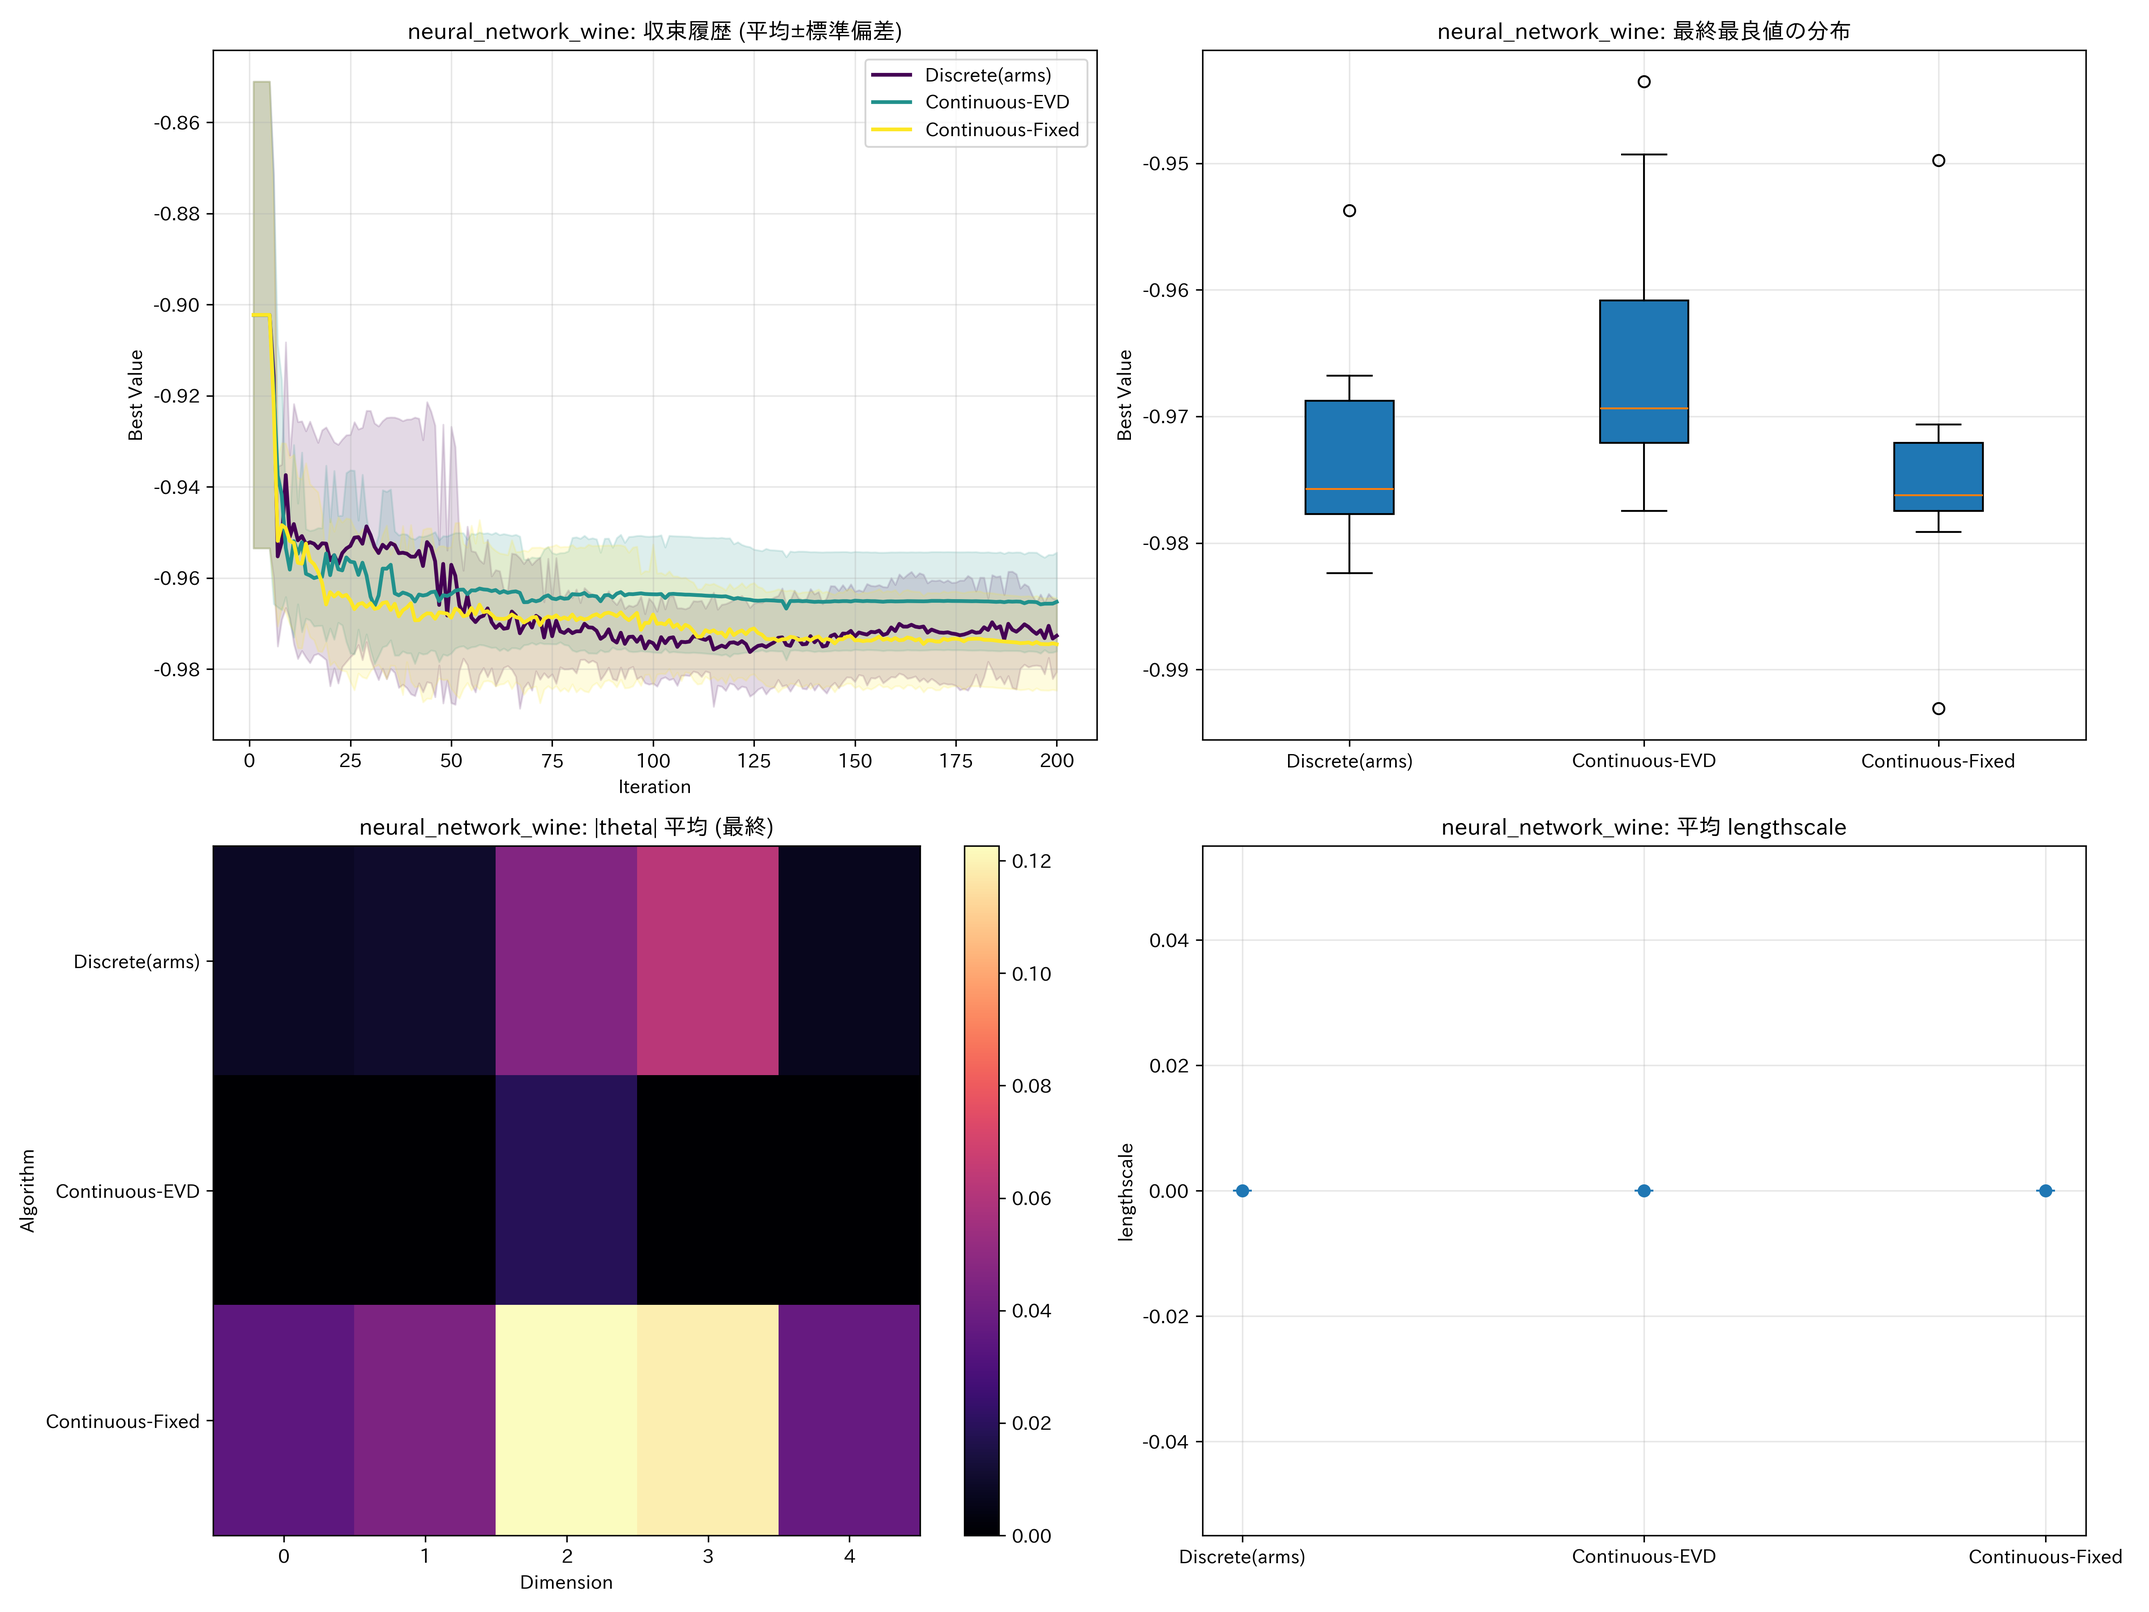
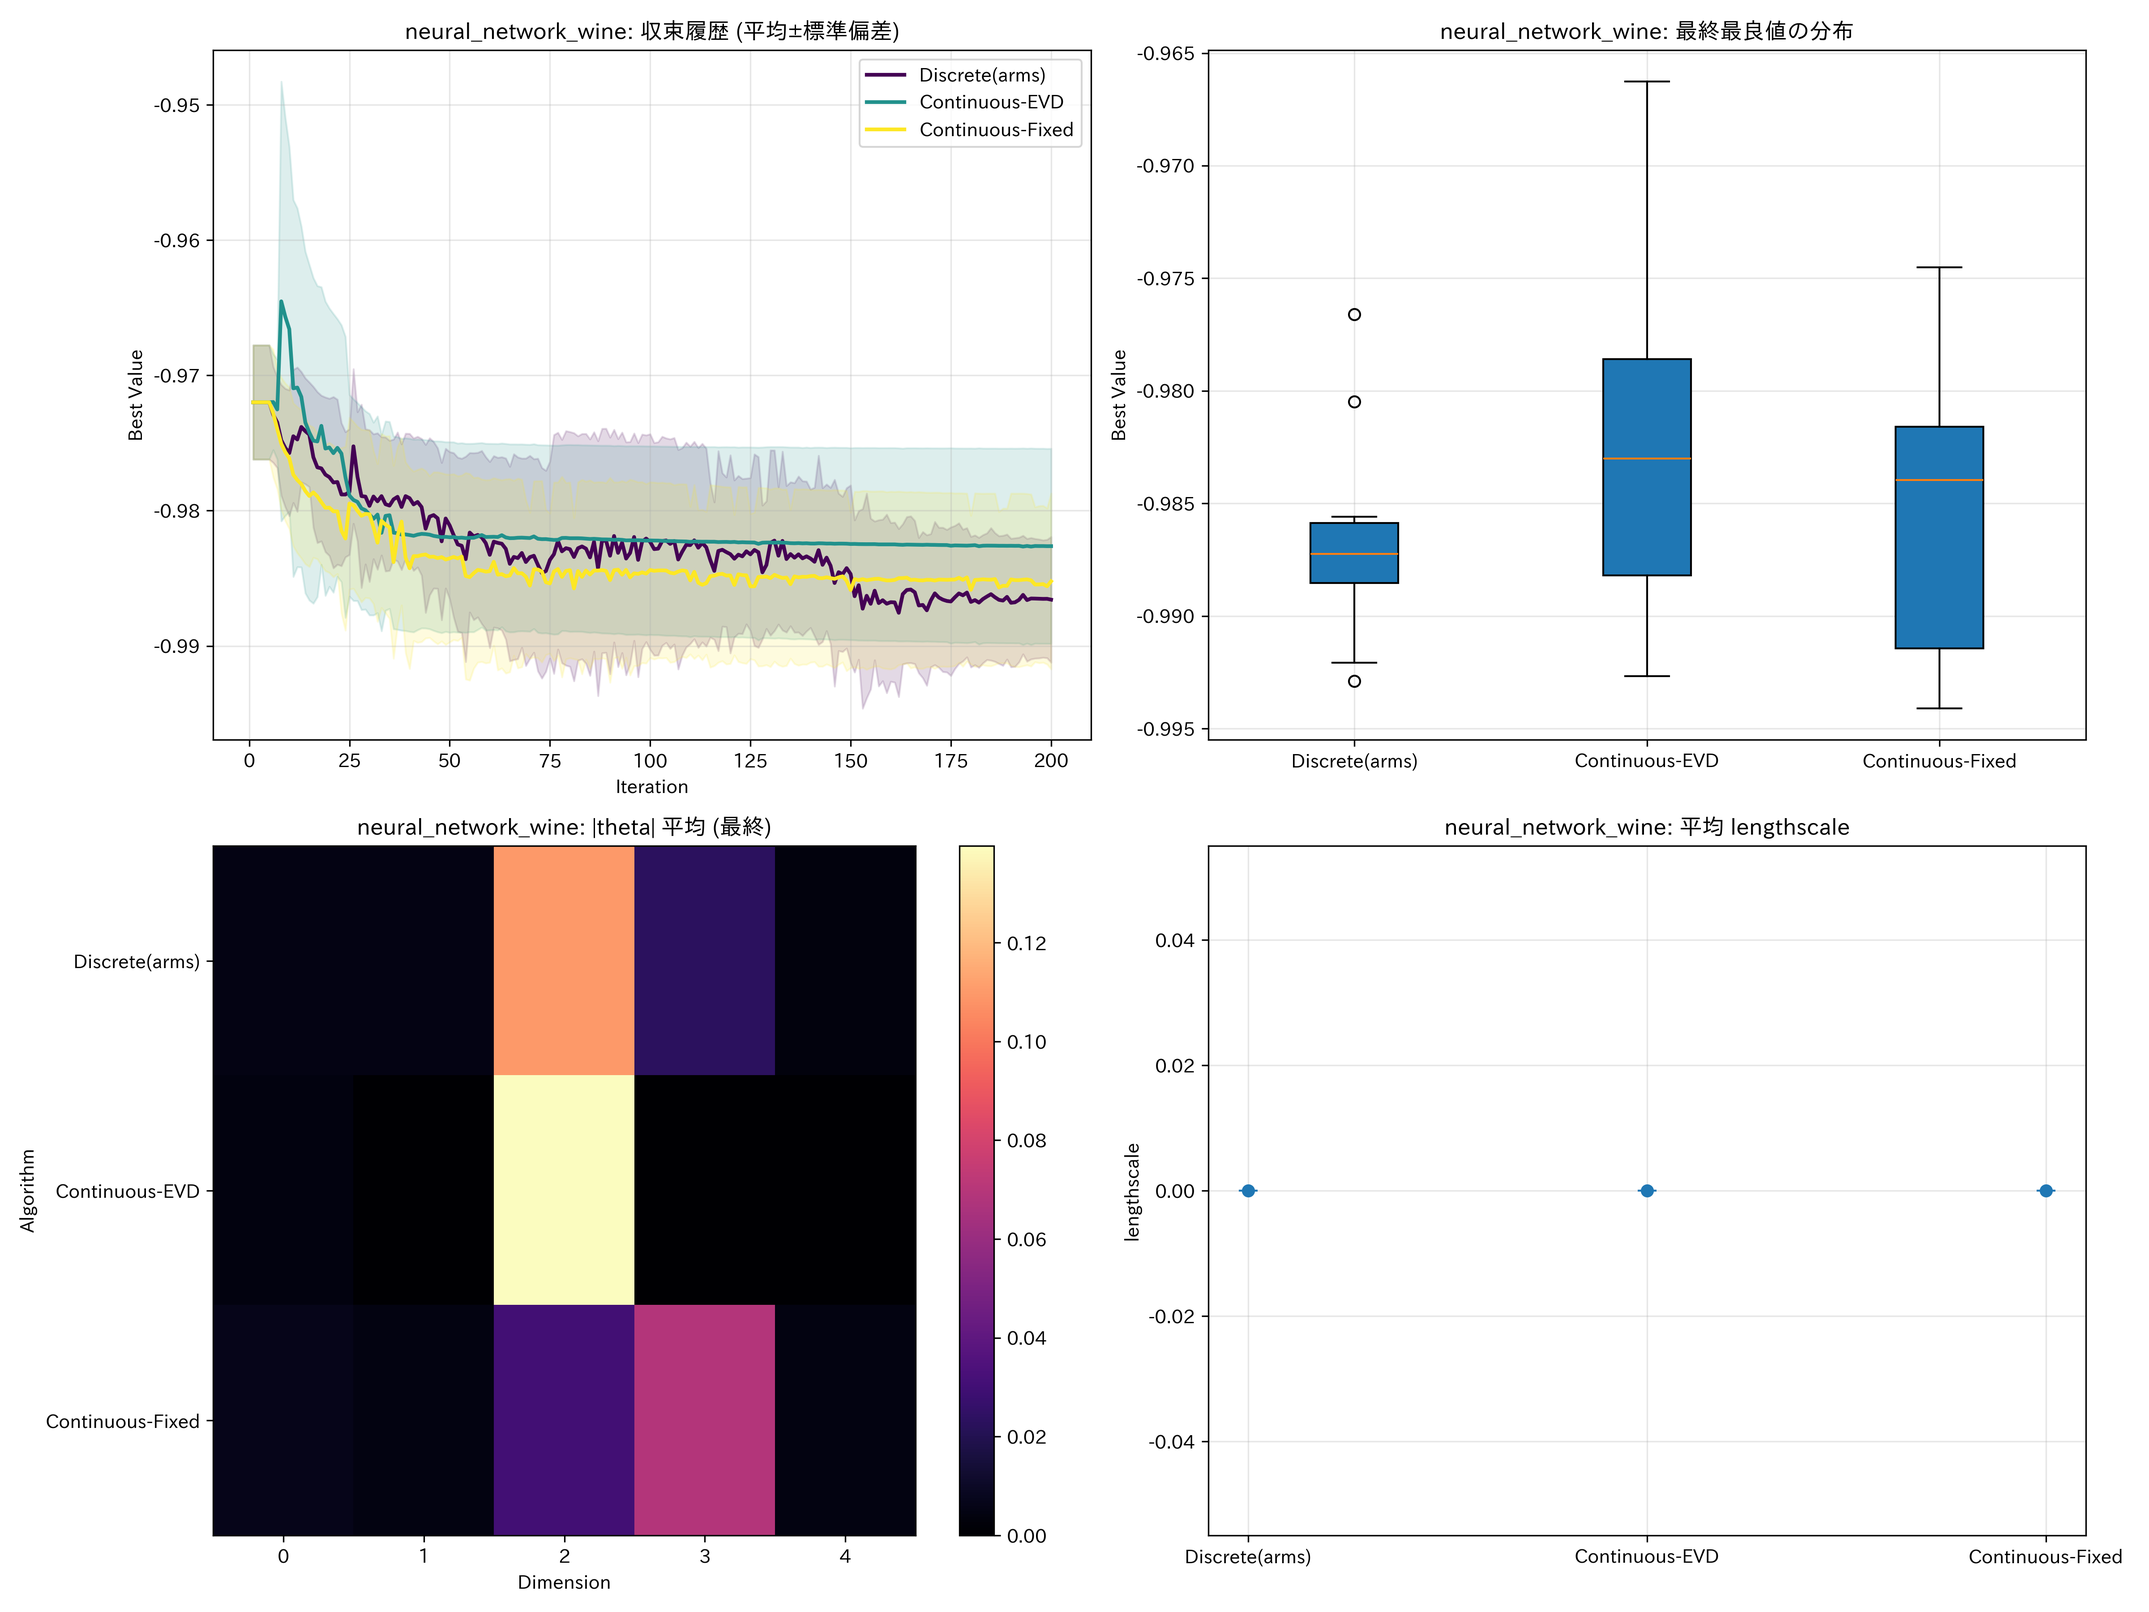
LInBandit更新

diff --git a/LinBandit-BO.py b/LinBandit-BO.py
@@ -1,16 +1,17 @@
 #!/usr/bin/env python3
 # -*- coding: utf-8 -*-
 """
-LinBandit-BO: Linear Bandit-based Bayesian Optimization
+LinBandit-BO: Linear Bandit-based Bayesian Optimization (NLPD*dir 版)
 
-高次元最適化問題に対して、Linear Bandit (LinUCB) とBayesian Optimization (BO)を
-組み合わせたアルゴリズムです。
+高次元最適化問題に対して、Linear Bandit (LinUCB) と Bayesian Optimization (BO) を
+組み合わせたアルゴリズムです。本実装は hpo_benchmark_reward_function_comparison で
+比較している「NLPD*dir」を基本アルゴリズムとして採用しています。
 
-主な特徴:
-- Linear UCBで探索方向を適応的に選択
-- ベイズ最適化で選択された方向に沿って最適点を探索
-- 高次元でも効率的に動作（100次元以上でも実用的）
-- 最適化された設定：0.5x arms + 勾配ベース報酬
+要点:
+- 方向選択: Continuous-Fixed（固定点反復）で信頼楕円体に基づく方向を選択
+- 取得関数: Expected Improvement (EI)
+- ラインサーチ: 方向に沿った1次元の粗グリッド + 局所33点で安定最適化
+- 報酬: NLPD（負の対数予測密度）を平滑化正規化したスカラー r を用い、b ← b + r·direction
 """
 
 import math
@@ -38,6 +39,25 @@ import warnings
 warnings.filterwarnings("ignore")
 
 
+class EMA:
+    """指数移動平均（NLPD 正規化用途）。"""
+    def __init__(self, alpha: float = 0.1, eps: float = 1e-8) -> None:
+        self.alpha = float(alpha)
+        self.eps = float(eps)
+        self._m = None
+
+    def update(self, x: float) -> float:
+        if self._m is None:
+            self._m = float(x)
+        else:
+            self._m = self.alpha * float(x) + (1.0 - self.alpha) * self._m
+        return float(self._m)
+
+    @property
+    def value(self) -> float:
+        return float(self._m if self._m is not None else self.eps)
+
+
 class LinBanditBO:
     """
     LinBandit-BO: Linear Bandit-based Bayesian Optimization
@@ -52,7 +72,7 @@ class LinBanditBO:
                  l_min: float = 0.05,
                  normalize_inputs_for_gp: bool = False,
                  track_history: bool = False,
-                 direction_selection: str = "discrete"):
+                 direction_selection: str = "continuous_fixed"):
         """
         Parameters
         ----------
@@ -129,6 +149,9 @@ class LinBanditBO:
         
         # 方向選択方式
         self.direction_selection = str(direction_selection)
+
+        # NLPD の指数移動平均（スケール正規化用）
+        self._ema_nlpd = EMA(alpha=0.1)
 
     def _compute_beta_t(self):
         """LinUCBのβ_t（現行式）を計算。"""
@@ -320,64 +343,79 @@ class LinBanditBO:
         return x
     
     def propose_new_x(self, direction):
-        """選択された方向に沿った最適化"""
+        """方向に沿った1D EI最大化（粗グリッド + 局所33点）。"""
+        assert self.model is not None and self.best_point is not None
         ei = ExpectedImprovement(self.model, best_f=self.best_value, maximize=False)
-        
-        # 方向に沿った探索範囲の計算
-        active_dims_mask = direction.abs() > 1e-9
-        if not active_dims_mask.any():
+
+        # 可動範囲 [lb, ub] を direction に沿って算出
+        active = direction.abs() > 1e-9
+        if not active.any():
             lb, ub = -1.0, 1.0
         else:
-            ratios_lower = (self.bounds[0] - self.best_point) / (direction + 1e-12 * (~active_dims_mask))
-            ratios_upper = (self.bounds[1] - self.best_point) / (direction + 1e-12 * (~active_dims_mask))
-            
-            t_bounds = torch.zeros(self.dim, 2, device=self.X.device)
-            t_bounds[:, 0] = torch.minimum(ratios_lower, ratios_upper)
-            t_bounds[:, 1] = torch.maximum(ratios_lower, ratios_upper)
-            
-            lb = -float('inf')
-            ub = float('inf')
-            for i in range(self.dim):
-                if active_dims_mask[i]:
-                    lb = max(lb, t_bounds[i, 0].item())
-                    ub = min(ub, t_bounds[i, 1].item())
-                    
-        if lb > ub:
-            domain_width = (self.bounds[1, 0] - self.bounds[0, 0]).item()
-            lb = -0.1 * domain_width
-            ub = 0.1 * domain_width
-            
-        one_d_bounds = torch.tensor([[lb], [ub]], dtype=torch.float32, device=self.X.device)
-        
-        def ei_on_line(t_scalar_tensor):
-            t_values = t_scalar_tensor.squeeze(-1)
-            points_on_line = self.best_point.unsqueeze(0) + t_values.reshape(-1, 1) * direction.unsqueeze(0)
-            points_on_line_clamped = torch.clamp(points_on_line, self.bounds[0].unsqueeze(0), self.bounds[1].unsqueeze(0))
-            if self.normalize_inputs_for_gp:
-                pts = self._to_normalized(points_on_line_clamped)
-            else:
-                pts = points_on_line_clamped
-            return ei(pts.unsqueeze(1))
-        
-        # 獲得関数の最適化
-        cand_t, _ = optimize_acqf(
-            ei_on_line,
-            bounds=one_d_bounds,
-            q=1,
-            num_restarts=10,
-            raw_samples=100
-        )
-        
-        alpha_star = cand_t.item()
-        new_x = self.best_point + alpha_star * direction
-        new_x_clamped = torch.clamp(new_x, self.bounds[0], self.bounds[1])
-        
-        return new_x_clamped
+            ratios_lower = (self.bounds[0] - self.best_point) / (direction + 1e-12 * (~active))
+            ratios_upper = (self.bounds[1] - self.best_point) / (direction + 1e-12 * (~active))
+            t_bounds = torch.stack([
+                torch.minimum(ratios_lower, ratios_upper),
+                torch.maximum(ratios_lower, ratios_upper)
+            ], dim=-1)
+            lb = -float("inf"); ub = float("inf")
+            for idx in range(self.dim):
+                if active[idx]:
+                    lb = max(lb, float(t_bounds[idx, 0]))
+                    ub = min(ub, float(t_bounds[idx, 1]))
+        if not (math.isfinite(lb) and math.isfinite(ub)) or lb >= ub:
+            width = float(self.bounds[1, 0] - self.bounds[0, 0])
+            lb, ub = -0.1 * width, 0.1 * width
+
+        device = self.bounds.device; dtype = self.bounds.dtype
+        n_grid = max(128, min(512, 64 + 4 * self.dim))
+        t_grid = torch.linspace(lb, ub, steps=n_grid, device=device, dtype=dtype)
+        pts = self.best_point.unsqueeze(0) + t_grid.reshape(-1, 1) * direction.unsqueeze(0)
+        pts = torch.clamp(pts, self.bounds[0].unsqueeze(0), self.bounds[1].unsqueeze(0))
+        pts_n = self._to_normalized(pts) if self.normalize_inputs_for_gp else pts
+        with torch.no_grad():
+            vals = ei(pts_n.unsqueeze(1)).view(-1)
+        mask = torch.isfinite(vals)
+        if not mask.any():
+            alpha_star = 0.0
+        else:
+            vals[~mask] = -float("inf")
+            best_idx = int(torch.argmax(vals).item())
+            alpha_star = float(t_grid[best_idx].item())
+            step = float((ub - lb) / (n_grid - 1)) if n_grid > 1 else 0.0
+            if step > 0:
+                local_lb = max(lb, alpha_star - 5 * step)
+                local_ub = min(ub, alpha_star + 5 * step)
+                t_local = torch.linspace(local_lb, local_ub, steps=33, device=device, dtype=dtype)
+                pts_l = self.best_point.unsqueeze(0) + t_local.reshape(-1, 1) * direction.unsqueeze(0)
+                pts_l = torch.clamp(pts_l, self.bounds[0].unsqueeze(0), self.bounds[1].unsqueeze(0))
+                pts_l_n = self._to_normalized(pts_l) if self.normalize_inputs_for_gp else pts_l
+                with torch.no_grad():
+                    vals_l = ei(pts_l_n.unsqueeze(1)).view(-1)
+                mask_l = torch.isfinite(vals_l)
+                if mask_l.any():
+                    vals_l[~mask_l] = -float("inf")
+                    j = int(torch.argmax(vals_l).item())
+                    alpha_star = float(t_local[j].item())
+        x_new = self.best_point + alpha_star * direction
+        return torch.clamp(x_new, self.bounds[0], self.bounds[1])
+
+    def _compute_nlpd_reward(self, y_actual: float, mu_pred: float, var_pred: float, noise_var: float) -> float:
+        """NLPD を EMA でスケール正規化し [0,1] にクリップして返す。"""
+        eps = 1e-9
+        sigma2 = max(float(var_pred + noise_var), eps)
+        resid2 = float((y_actual - mu_pred) ** 2)
+        nlpd = 0.5 * math.log(2.0 * math.pi * sigma2) + 0.5 * (resid2 / sigma2)
+        ema = self._ema_nlpd.value
+        r_scaled = nlpd / max(ema, eps)
+        self._ema_nlpd.update(nlpd)
+        # 数値安定化のためクリップ
+        return max(0.0, min(1.0, float(r_scaled)))
     
     def optimize(self):
         """メインの最適化ループ"""
         print(f"LinBandit-BO開始: {self.dim}次元, アーム数: {self.n_arms}本, 最大{self.n_max}回評価")
-        print(f"最適化設定: 勾配ベース報酬 + 0.5x arms (実験結果に基づく)")
+        print(f"最適化設定: NLPD*dir + 0.5x arms + 1D-EI(粗+局所33)")
         
         # 初期化
         self.initialize()
@@ -401,49 +439,31 @@ class LinBanditBO:
             # 選択された方向に沿った最適化
             new_x = self.propose_new_x(direction)
             
-            # 予測と実際の評価
+            # 予測（平均・分散）と実際の評価
             with torch.no_grad():
                 x_q = self._to_normalized(new_x.unsqueeze(0)) if self.normalize_inputs_for_gp else new_x.unsqueeze(0)
-                predicted_mean = self.model.posterior(x_q).mean.squeeze().item()
-            actual_y = self.objective_function(new_x.unsqueeze(0)).squeeze().item()
-            
-            # 報酬の計算（勾配ベース - 実験結果に基づく最適設計）
-            if self.normalize_inputs_for_gp:
-                new_x_for_grad = self._to_normalized(new_x.clone()).unsqueeze(0)
-                new_x_for_grad.requires_grad_(True)
-                posterior = self.model.posterior(new_x_for_grad)
-                mean_at_new_x = posterior.mean
-                mean_at_new_x.sum().backward()
-                grad_vector_normed = new_x_for_grad.grad.squeeze(0)
-                grad_vector = grad_vector_normed / (self._range + 1e-12)
-            else:
-                new_x_for_grad = new_x.clone().unsqueeze(0)
-                new_x_for_grad.requires_grad_(True)
-                posterior = self.model.posterior(new_x_for_grad)
-                mean_at_new_x = posterior.mean
-                mean_at_new_x.sum().backward()
-                grad_vector = new_x_for_grad.grad.squeeze(0)
-            
-            # 報酬ベクトルを定義（絶対値を取ることで影響の大きさを評価）
-            reward_vector = grad_vector.abs()
-            
-            # 推定リプシッツ定数の更新（下限付き）
-            grad_norm = reward_vector.norm().item()
-            if grad_norm > self.L_hat:
-                self.L_hat = grad_norm
-            # 下限を適用
-            L_effective = max(self.L_hat, self.L_min)
+                post = self.model.posterior(x_q)
+                mu_pred = float(post.mean.squeeze().item())
+                var_pred = float(post.variance.squeeze().item())
+            actual_y = float(self.objective_function(new_x.unsqueeze(0)).squeeze().item())
 
-            # リプシッツ定数でスケーリング（下限によりスパイク抑制）
-            scaled_reward_vector = reward_vector / L_effective
-            
-            # Linear Banditパラメータの更新
+            # 観測ノイズ分散の推定
+            try:
+                noise_var = float(self.model.likelihood.noise.mean().item())
+            except Exception:
+                noise_var = 1e-6
+
+            # NLPD スカラー報酬 r（[0,1]にクリップ）
+            r_scalar = self._compute_nlpd_reward(actual_y, mu_pred, var_pred, noise_var)
+            reward_vector = r_scalar * (direction / (direction.norm() + 1e-12))
+
+            # Linear Bandit パラメータの更新
             x_arm = direction.view(-1, 1)
             self.A += x_arm @ x_arm.t()
-            self.b += scaled_reward_vector  # 勾配ベース報酬（リプシッツスケーリング）
+            self.b += reward_vector
             if self.track_history:
                 self.selected_direction_history.append(direction.detach().clone())
-                self.reward_history.append(scaled_reward_vector.detach().clone())
+                self.reward_history.append(torch.as_tensor(reward_vector).detach().clone())
             
             # データとモデルの更新
             self.X = torch.cat([self.X, new_x.unsqueeze(0)], 0)
@@ -463,12 +483,12 @@ class LinBanditBO:
             
             # 進捗表示
             if n_iter % 10 == 0:
-                print(f"  評価回数: {n_iter}/{self.n_max}, 現在の最良値: {self.best_value:.6f}, L_hat: {self.L_hat:.4f}")
+                print(f"  評価回数: {n_iter}/{self.n_max}, 現在の最良値: {self.best_value:.6f}")
                 
         print(f"\n最適化完了!")
         print(f"最良値: {self.best_value:.6f}")
         print(f"最良点: {self.best_point[:5]}... (最初の5次元)")
-        print(f"最終L_hat: {self.L_hat:.6f}")
+        
         
         return self.best_point, self.best_value
 
